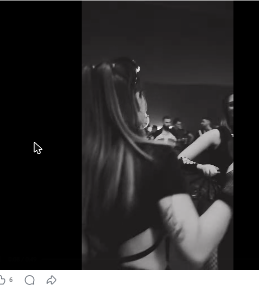
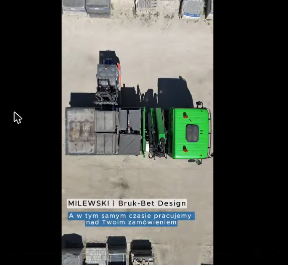
FB: wszystkie 8 postow z pelnymi danymi i zrzutami

diff --git a/index.html b/index.html
@@ -416,8 +416,9 @@
       var tr=document.createElement('tr');
       function td(cls,txt){var d=document.createElement('td');if(cls)d.className=cls;d.textContent=txt;return d;}
       var tdp=document.createElement('td');tdp.className='thumbc';
-      var a=document.createElement('a');a.href=FBPAGE;a.target='_blank';a.rel='noopener';
-      var im=document.createElement('img');im.src='img/fb/post'+(idx+1)+'.png';im.alt='';im.loading='lazy';a.appendChild(im);tdp.appendChild(a);
+      var im=document.createElement('img');im.src=p.img||('img/fb/post'+(idx+1)+'.png');im.alt='';im.loading='lazy';
+      if(p.url){var a=document.createElement('a');a.href=p.url;a.target='_blank';a.rel='noopener';a.appendChild(im);tdp.appendChild(a);}
+      else{tdp.appendChild(im);}
       tr.appendChild(tdp);
       tr.appendChild(td('datec',fmt(p.d)));
       tr.appendChild(td('locc',p.loc||'—'));
@@ -432,10 +433,10 @@
     var n=F.length,rt=0,sh=0,co=0;
     F.forEach(function(p){rt+=p.li;sh+=p.sh;co+=p.co;});
     var el=document.getElementById('fb-summary');
-    if(el)el.textContent='Wszystkie '+n+' posty ze strony na Facebooku, od najnowszego — pełna treść, reakcje, komentarze i udostępnienia.';
+    if(el)el.textContent='Wszystkie '+n+' postów ze strony na Facebooku, od najnowszego — pełna treść, reakcje, komentarze i udostępnienia. Czerwony „!" oznacza brak (0).';
     var agg=document.getElementById('fb-agg');
     if(agg)agg.innerHTML=
-      tile(n, 'Posty na Facebooku', 'dwa z czerwca 2026, przerwa, dwa z listopada', 'Za mało, nieregularnie')+
+      tile(n, 'Posty na Facebooku', 'czerwiec–sierpień 2026, potem przerwa i dwa w listopadzie', 'Nieregularnie')+
       tile(nf(rt), 'Reakcje razem', 'średnio '+(rt/n).toFixed(1).replace('.',',')+' na post', null)+
       tile(nf(sh), 'Udostępnienia razem', 'średnio '+(sh/n).toFixed(1).replace('.',',')+' na post', null)+
       tile(co, 'Komentarze razem', 'zero dyskusji pod postami', 'Pilne do poprawy');
